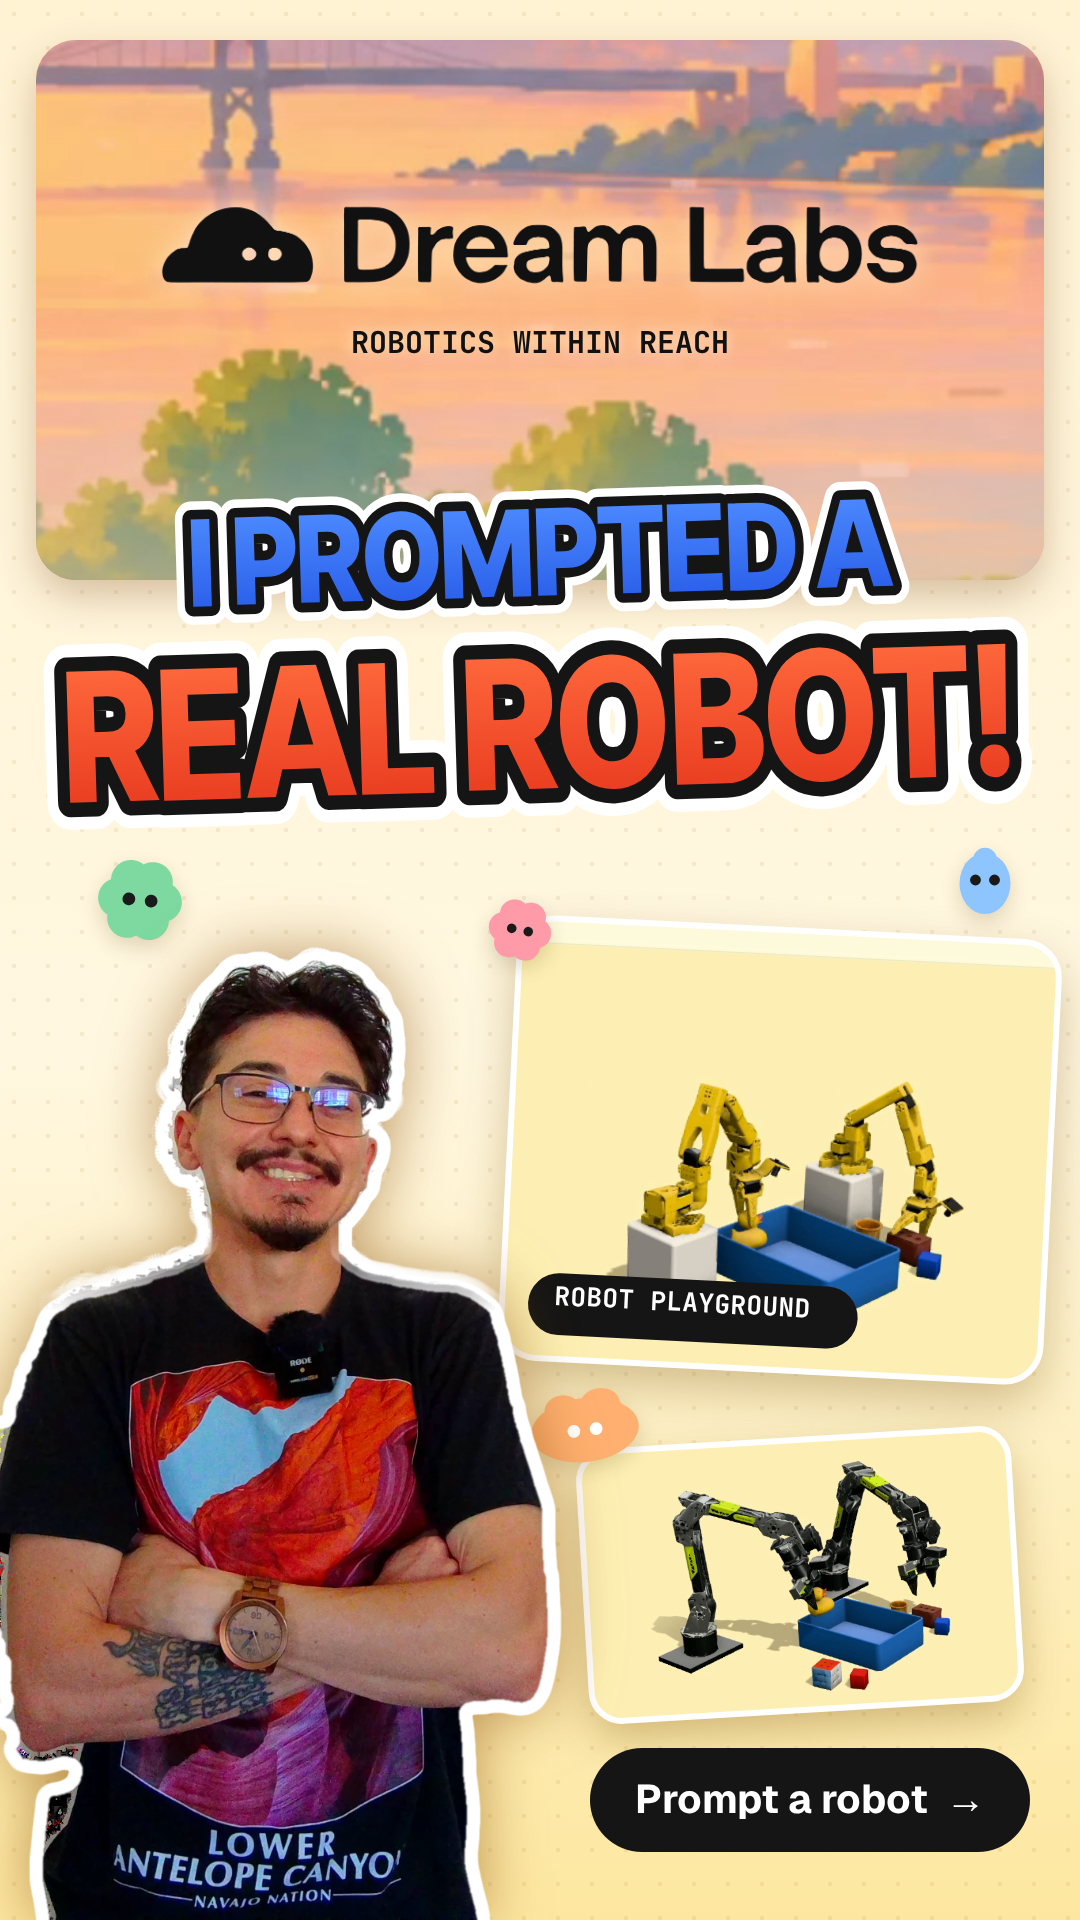
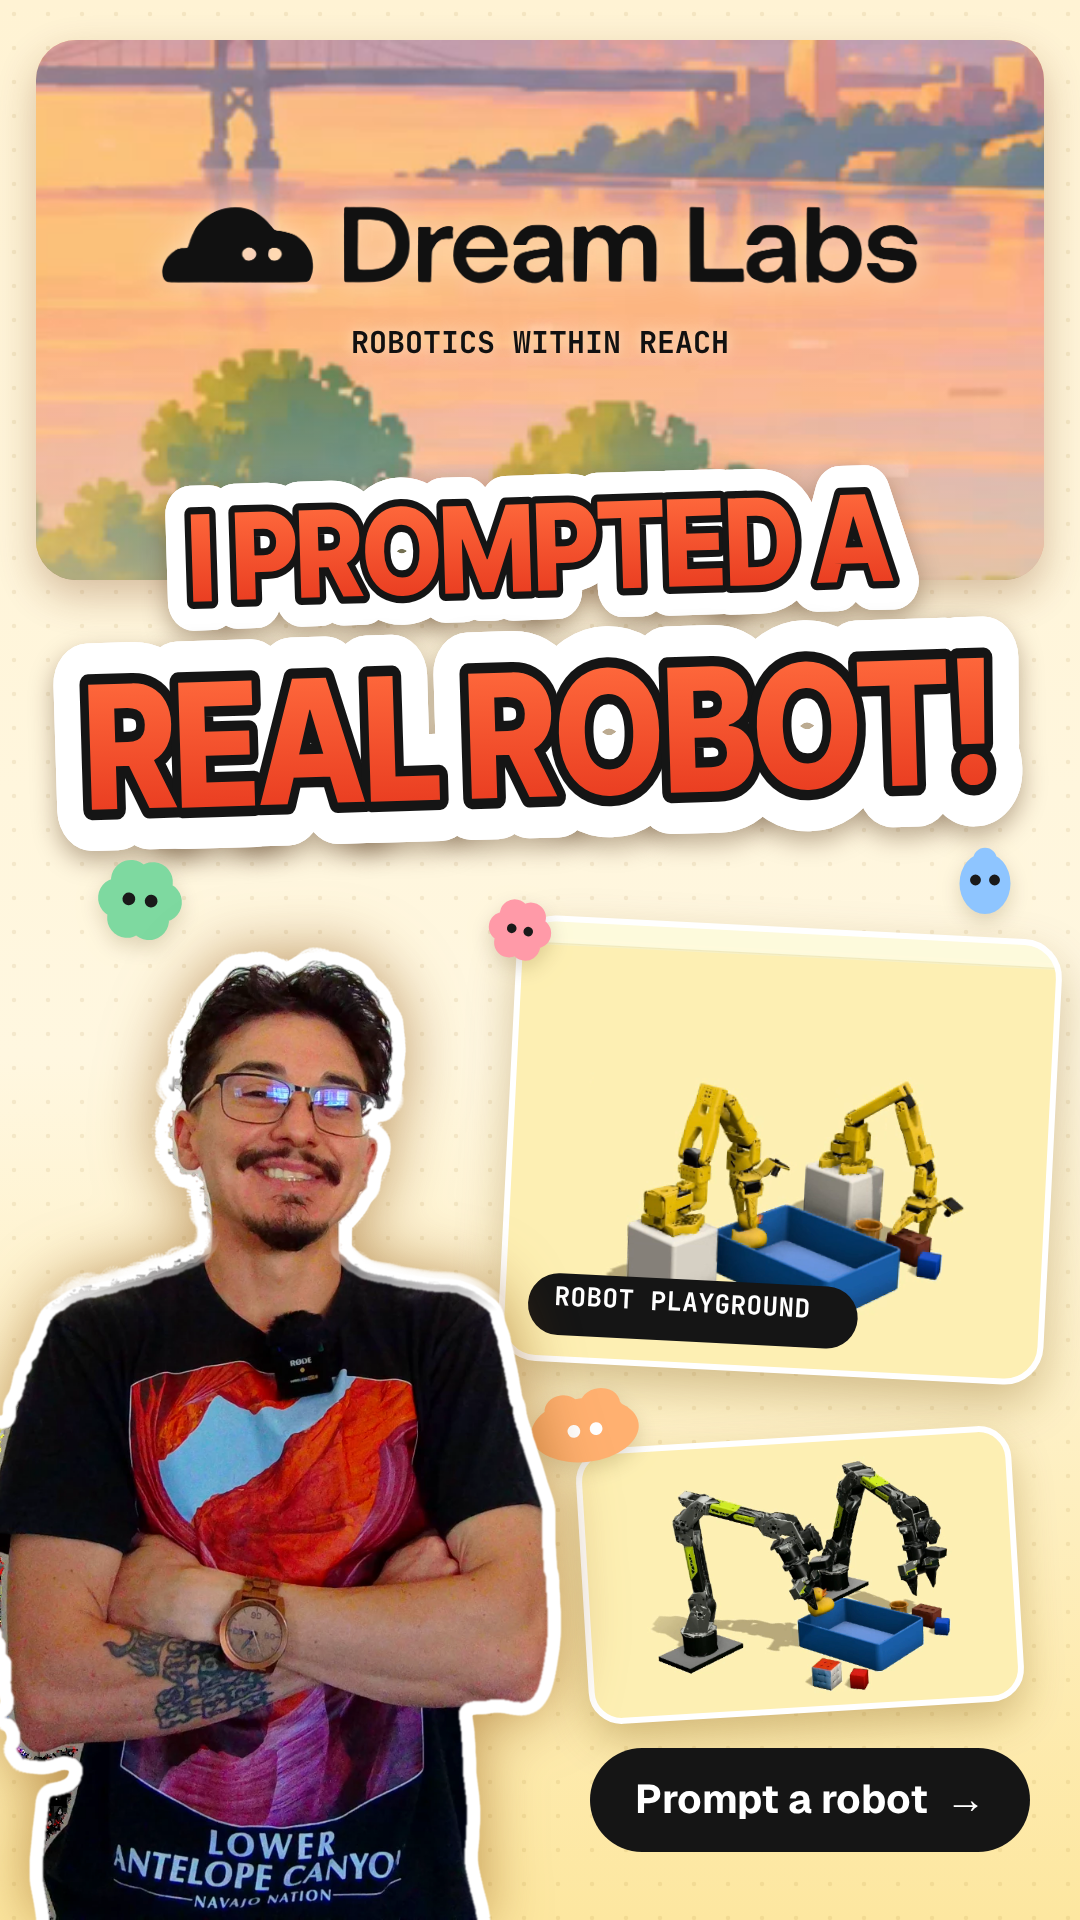
DreamLabs thumbnail: both headline lines orange-red with a thick white sticker border
Claude-Session: https://claude.ai/code/session_01NSJvdmHsHoazKiuuGVQfMY

Changed region(s): [[0.0306, 0.2188, 0.9778, 0.4688]]

diff --git a/story/dreamlabs/thumb.html b/story/dreamlabs/thumb.html
@@ -16,7 +16,7 @@
   const rr = (x, y, w, h, r) => { c.beginPath(); c.roundRect(x, y, w, h, r); };
   // poster word: thick dark stroke + soft drop + fill
   const word = (s, x, y, size, fill, rot = 0, sx = 0.88, white = false) => { c.save(); c.translate(x, y); c.rotate(rot); c.scale(sx, 1); c.font = D(size); c.textAlign = 'center'; c.textBaseline = 'middle'; c.letterSpacing = '-2px'; c.lineJoin = 'round';
-    c.fillStyle = 'rgba(60,30,0,0.35)'; c.fillText(s, 8, 14); if (white) { c.lineWidth = size * 0.30; c.strokeStyle = '#FFFFFF'; c.strokeText(s, 0, 0); } c.lineWidth = size * 0.16; c.strokeStyle = INK; c.strokeText(s, 0, 0);
+    if (white) { c.save(); c.shadowColor = 'rgba(60,30,0,0.35)'; c.shadowBlur = 24; c.shadowOffsetY = 10; c.lineWidth = size * 0.48; c.strokeStyle = '#FFFFFF'; c.strokeText(s, 0, 0); c.restore(); c.lineWidth = size * 0.48; c.strokeStyle = '#FFFFFF'; c.strokeText(s, 0, 0); c.lineWidth = size * 0.12; c.strokeStyle = INK; c.strokeText(s, 0, 0); } else { c.fillStyle = 'rgba(60,30,0,0.35)'; c.fillText(s, 8, 14); c.lineWidth = size * 0.16; c.strokeStyle = INK; c.strokeText(s, 0, 0); }
     if (Array.isArray(fill)) { const g = c.createLinearGradient(0, -size / 2, 0, size / 2); g.addColorStop(0, fill[0]); g.addColorStop(1, fill[1]); c.fillStyle = g; } else c.fillStyle = fill; c.fillText(s, 0, 0); c.restore(); };
   // the site's blob mascots: soft rounded bodies with two dot eyes
   const blob = (x, y, s, col, rot = 0, kind = 0) => { c.save(); c.translate(x, y); c.rotate(rot); c.shadowColor = 'rgba(80,50,0,0.18)'; c.shadowBlur = 20; c.shadowOffsetY = 8; c.fillStyle = col; c.beginPath();
@@ -38,8 +38,8 @@
   c.font = M(700, 30); c.fillStyle = '#111111'; c.textAlign = 'center'; c.textBaseline = 'middle'; c.shadowColor = 'rgba(255,240,215,0.8)'; c.shadowBlur = 14; c.fillText('ROBOTICS WITHIN REACH', W / 2, by + 305); c.shadowBlur = 0;
   c.restore();
   // ---- headline (crosses the bottom edge of the sunset card)
-  word('I PROMPTED A', W / 2, 560, 120, ['#4D8BFF', '#2457E6'], -0.03, 0.88, true);
-  word('REAL ROBOT!', W / 2, 735, 180, ['#FF6A3D', '#E5341B'], -0.03, 0.84, true);
+  word('I PROMPTED A', W / 2, 555, 120, ['#FF6A3D', '#E5341B'], -0.03, 0.88, true);
+  word('REAL ROBOT!', W / 2, 745, 172, ['#FF6A3D', '#E5341B'], -0.03, 0.84, true);
   // ---- robot card (the arms from the site) with the site's playground chip
   c.save(); c.translate(780, 1150); c.rotate(0.05); const cw = 540, ch = 440;
   c.shadowColor = 'rgba(120,80,10,0.35)'; c.shadowBlur = 50; c.shadowOffsetY = 20; rr(-cw / 2, -ch / 2, cw, ch, 36); c.fillStyle = '#FDEFB4'; c.fill(); c.shadowColor = 'transparent';
